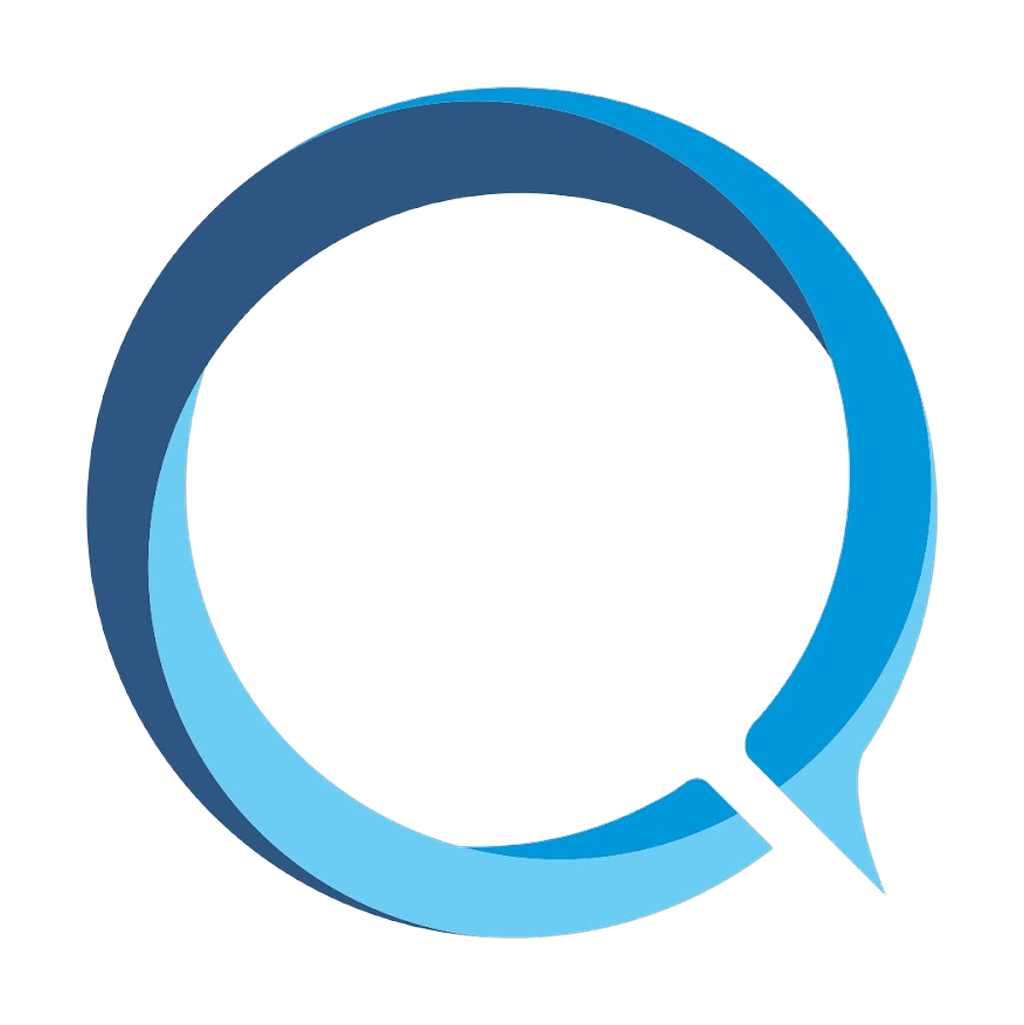
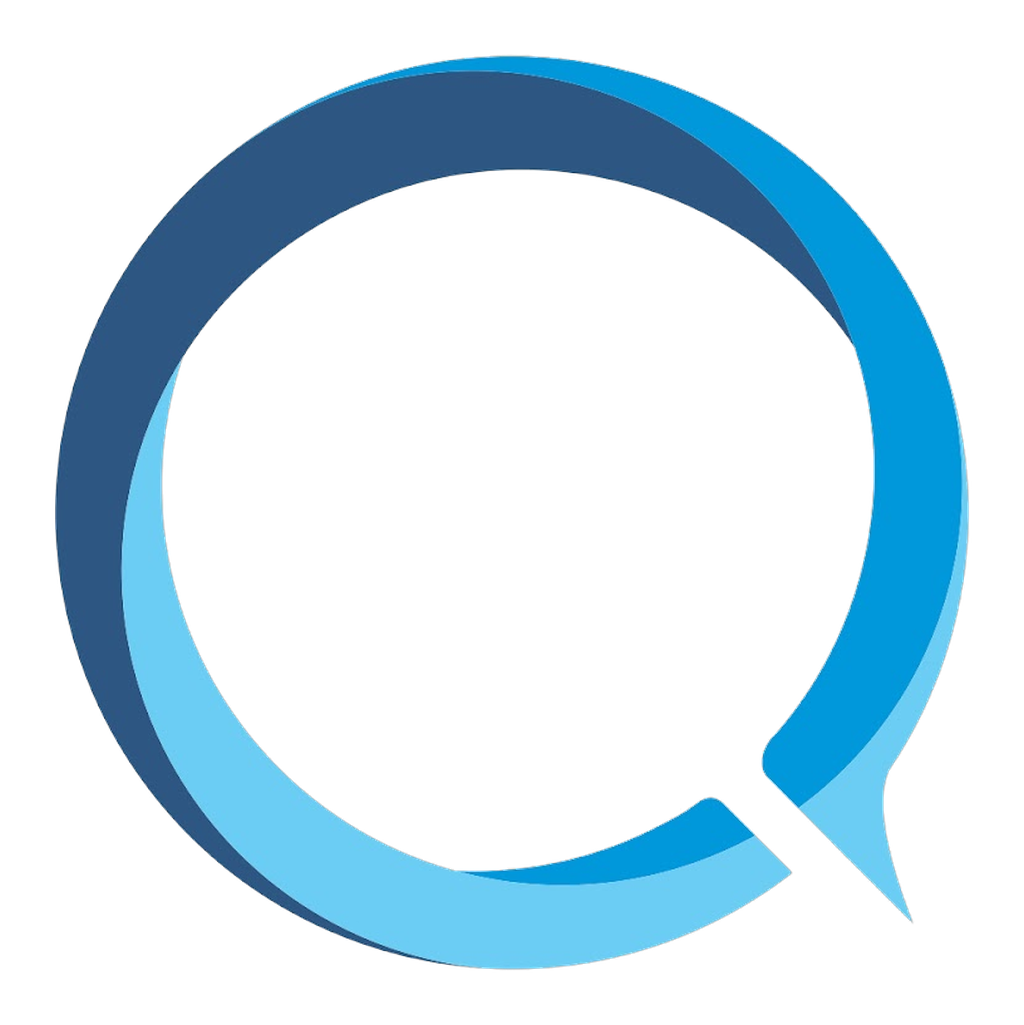
fix(marca): usa o símbolo oficial do Quad na animação de carregamento
Descarta a releitura em SVG (rejeitada) e passa a usar o símbolo oficial
da marca (transparente) nas telas de acesso e na vinheta, conforme o
Manual de Marca 2024. A animação de carregamento agora revela o próprio
símbolo oficial em círculo (efeito de "desenho"), sem recriar a forma.
Adiciona token __QUAD_SIMBOLO__ (build.ps1) e o asset
simbolo-quad-transparente.png; remove simbolo-quad-3d.png.

Claude-Session: https://claude.ai/code/session_01TjLph3vrmkmLEeaqqKDUdJ

Changed region(s): [[0.0312, 0.0312, 0.9688, 0.9678], [0.875, 0.8741, 0.9062, 0.9054]]

diff --git a/src.html b/src.html
@@ -376,21 +376,18 @@
     word-break: break-all; text-align: center; max-width: 100%;
   }
 
-  /* ============ MARCA QUAD · símbolo em fitas de ferro azul (SVG 3D) ============ */
-  .brand-q { display: block; overflow: visible; }
-  .login-q { width: 118px; height: auto; margin: 0 auto 16px; }
-  .gate-q { width: 56px; height: auto; margin: 0 auto 12px; }
-  .splash-q { width: 138px; height: auto; }
-  /* animação de carregamento: o próprio símbolo se constrói (o ferro se desenha e torce) */
-  .q-load { animation: qsettle 2.5s cubic-bezier(.34,1.16,.4,1) both; }
-  .q-load .rb { stroke-dasharray: 1; stroke-dashoffset: 1; animation: qdraw 1.7s cubic-bezier(.55,0,.25,1) forwards; }
-  .q-load .d1 { animation-delay: .05s; }
-  .q-load .d2 { animation-delay: .30s; }
-  .q-load .d3 { animation-delay: .55s; }
-  .q-load .tail { opacity: 0; transform-box: fill-box; transform-origin: center; animation: qtail .55s ease 1.15s forwards; }
-  @keyframes qdraw { to { stroke-dashoffset: 0; } }
-  @keyframes qtail { from { opacity: 0; transform: scale(.3); } to { opacity: 1; transform: none; } }
-  @keyframes qsettle { 0% { transform: rotate(-9deg) scale(.85); } 55% { transform: none; } 100% { transform: none; } }
+  /* ============ VINHETA · símbolo oficial com revelação de carregamento ============ */
+  /* o próprio símbolo do Quad se revela em círculo, como se estivesse sendo desenhado */
+  @property --qrev { syntax: '<angle>'; inherits: false; initial-value: 360deg; }
+  .splash-symbol {
+    width: 150px; height: 150px;
+    background-position: center; background-size: contain; background-repeat: no-repeat;
+    -webkit-mask: conic-gradient(from -105deg, #000 var(--qrev), rgba(0,0,0,0) 0deg);
+            mask: conic-gradient(from -105deg, #000 var(--qrev), rgba(0,0,0,0) 0deg);
+    animation: qreveal 1.75s cubic-bezier(.45,0,.2,1) both, qpop 2.4s cubic-bezier(.34,1.18,.4,1) both;
+  }
+  @keyframes qreveal { from { --qrev: 0deg; } to { --qrev: 360deg; } }
+  @keyframes qpop { 0% { transform: scale(.86); } 60% { transform: scale(1); } 100% { transform: scale(1); } }
 
   /* ============ BOTÃO + (MAIS) ============ */
   .nav-plus {
@@ -591,8 +588,7 @@
     * { animation: none !important; transition: none !important; }
     .login-logo, .splash-logo { opacity: 1 !important; transform: none !important; }
     .splash-phrase, .splash-phrase .dot, .splash-brand { opacity: 1 !important; transform: none !important; }
-    .q-load .rb { stroke-dashoffset: 0 !important; }
-    .q-load .tail { opacity: 1 !important; transform: none !important; }
+    .splash-symbol { -webkit-mask: none !important; mask: none !important; transform: none !important; }
   }
 </style>
 
@@ -1151,24 +1147,6 @@
           </defs>
         </svg>
 
-        <!-- ============ MARCA QUAD · símbolo em fitas de ferro azul (definições) ============ -->
-        <svg width="0" height="0" style="position:absolute" aria-hidden="true">
-          <defs>
-            <linearGradient id="qgd" x1="0" y1="0" x2="1" y2="1"><stop offset="0" stop-color="#2f6ea0"/><stop offset="1" stop-color="#204d78"/></linearGradient>
-            <linearGradient id="qgb" x1="1" y1="0" x2="0" y2="1"><stop offset="0" stop-color="#33b4e8"/><stop offset="1" stop-color="#1288c4"/></linearGradient>
-            <linearGradient id="qgl" x1="0" y1="1" x2="1" y2="0"><stop offset="0" stop-color="#8fd3f4"/><stop offset="1" stop-color="#5cb8e6"/></linearGradient>
-            <filter id="qsh" x="-30%" y="-30%" width="160%" height="160%"><feDropShadow dx="0" dy="3" stdDeviation="4" flood-color="#0d325a" flood-opacity="0.32"/></filter>
-            <symbol id="quadQ" viewBox="0 0 200 210">
-              <g filter="url(#qsh)" fill="none" stroke-linecap="round">
-                <path d="M48.9 131.5 A59 59 0 0 0 137.9 147.2" stroke="url(#qgl)" stroke-width="17"/>
-                <path d="M95.7 40.2 A62 62 0 0 0 85.0 162.2" stroke="url(#qgd)" stroke-width="21"/>
-                <path d="M104.3 40.2 A62 62 0 0 1 138.2 150.9" stroke="url(#qgb)" stroke-width="21"/>
-                <path d="M149.0 143.1 Q141.3 168.1 137.4 186.0 Q112.5 172.9 97.9 163.0 Z" fill="url(#qgb)"/>
-              </g>
-            </symbol>
-          </defs>
-        </svg>
-
         <span class="danilo-hint" id="daniloHint">Fale comigo!</span>
         <button class="danilo-fab" id="daniloFab" aria-label="Falar com Danilo, o guia">
           <video id="fabVideo" autoplay muted loop playsinline aria-hidden="true"></video>
@@ -1236,21 +1214,14 @@
 
         <!-- ============ VINHETA (toca logo após o login) ============ -->
         <div class="splash-layer done" id="splashLayer" role="button" aria-label="Vinheta — toque para pular">
-          <svg class="brand-q splash-q q-load" viewBox="0 0 200 210" aria-hidden="true">
-            <g filter="url(#qsh)" fill="none" stroke-linecap="round">
-              <path class="rb d3" pathLength="1" d="M48.9 131.5 A59 59 0 0 0 137.9 147.2" stroke="url(#qgl)" stroke-width="17"/>
-              <path class="rb d1" pathLength="1" d="M95.7 40.2 A62 62 0 0 0 85.0 162.2" stroke="url(#qgd)" stroke-width="21"/>
-              <path class="rb d2" pathLength="1" d="M104.3 40.2 A62 62 0 0 1 138.2 150.9" stroke="url(#qgb)" stroke-width="21"/>
-              <path class="tail" d="M149.0 143.1 Q141.3 168.1 137.4 186.0 Q112.5 172.9 97.9 163.0 Z" fill="url(#qgb)"/>
-            </g>
-          </svg>
+          <div class="splash-symbol" style="background-image:url(__QUAD_SIMBOLO__)" aria-hidden="true"></div>
           <div class="splash-phrase">Comece seu sonho por aqui<span class="dot">.</span><span class="dot">.</span><span class="dot">.</span></div>
           <div class="splash-brand">Quad Concursos</div>
         </div>
 
         <!-- ============ PORTÃO: JÁ É ALUNO / PRIMEIRA VEZ ============ -->
         <div class="gate-layer" id="gateLayer">
-          <svg class="brand-q gate-q" viewBox="0 0 200 210" aria-hidden="true"><use href="#quadQ"/></svg>
+          <img class="gate-logo" src="__QUAD_SIMBOLO__" alt="">
 
           <!-- verificação do e-mail (loading) -->
           <div class="gate-step" id="gateVerify" style="display:none">
@@ -1380,7 +1351,7 @@
         <!-- ============ LOGIN ============ -->
         <div class="login-layer" id="loginLayer">
           <div class="login-logo-wrap" id="logoWrap">
-            <svg class="brand-q login-q" viewBox="0 0 200 210" aria-hidden="true"><use href="#quadQ"/></svg>
+            <img class="login-logo" src="__QUAD_SIMBOLO__" alt="Símbolo Quad Concursos">
           </div>
           <h2 class="login-title">VIVER O QUAD</h2>
           <p class="login-sub">Da matrícula ao primeiro dia do curso de formação.</p>

diff --git a/CHANGELOG.md b/CHANGELOG.md
@@ -1,5 +1,14 @@
 # Histórico de versões — Viver o Quad (protótipo)
 
+## 18/07/2026 (noite) — símbolo oficial na animação de carregamento
+- A releitura do símbolo em SVG foi **descartada**: as telas de acesso e a vinheta
+  passam a usar o **símbolo oficial da marca** (arquivo original, fundo transparente),
+  conforme o Manual de Marca 2024 (cores #0098DA, #2D5782, #6BCDF3)
+- Vinheta: animação de carregamento agora é uma **revelação circular do próprio
+  símbolo oficial** (ele se "desenha" em círculo enquanto carrega), sem recriar a forma
+- Novo asset `simbolo-quad-transparente.png` embutido no build via token
+  `__QUAD_SIMBOLO__` (build.ps1 atualizado); removido `simbolo-quad-3d.png`
+
 ## 18/07/2026 (fim de tarde) — identidade visual do acesso
 - **Símbolo do Quad em SVG** (fitas de ferro azul, transparente, com brilho e
   sombra 3D) substitui a logo em caixa branca nas telas de acesso
